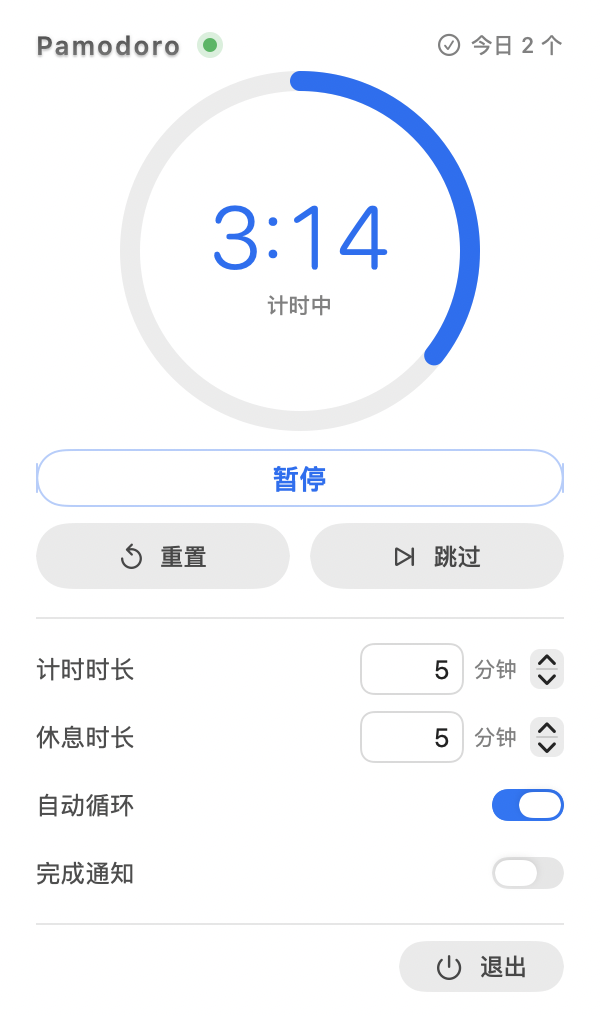
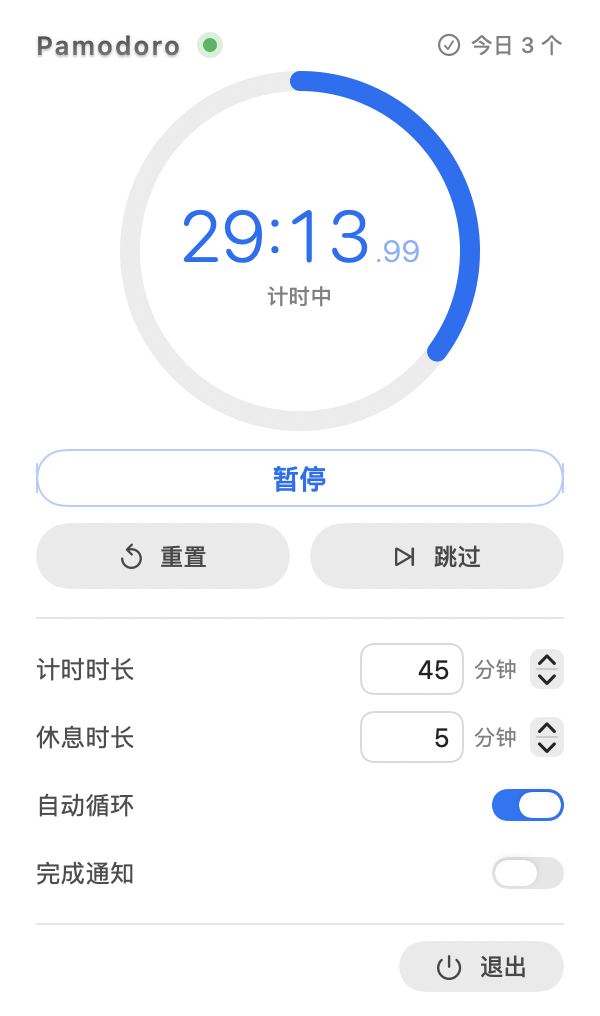
面板加毫秒显示，状态栏计时态改用计时器图标，退出音间隔减半

diff --git a/Sources/main.swift b/Sources/main.swift
@@ -15,6 +15,7 @@ final class AppDelegate: NSObject, NSApplicationDelegate, NSPopoverDelegate {
         statusItem = NSStatusBar.system.statusItem(withLength: Self.statusItemLength)
 
         if let button = statusItem.button {
+            button.imagePosition = .imageLeading
             button.target = self
             button.action = #selector(statusItemClicked)
             button.sendAction(on: [.leftMouseUp, .rightMouseUp])
@@ -39,16 +40,13 @@ final class AppDelegate: NSObject, NSApplicationDelegate, NSPopoverDelegate {
     /// 计时 / 休息之间切换 emoji 时，item 都不变宽，锚定其上的 popover 也就不会左右跳。
     private static var statusItemLength: CGFloat {
         let font = NSFont.monospacedDigitSystemFont(ofSize: 12.5, weight: .regular)
-        let samples = ["⌛ 888:88", "☕ 888:88"]
-        let widest = samples
-            .map { ceil(NSAttributedString(string: $0, attributes: [.font: font]).size().width) }
-            .max() ?? 72
-        return widest + 20
-    }
-
-    /// 计时用 ⌛，休息用 ☕
-    private static func emoji(for phase: PomodoroPhase) -> String {
-        phase == .rest ? "☕" : "⌛"
+        let textWidth = ceil(NSAttributedString(string: "888:88", attributes: [.font: font]).size().width)
+        let emojiWidth = ceil(NSAttributedString(string: "☕ ", attributes: [.font: font]).size().width)
+        let timerIconWidth = ceil(StatusIcon.timer.size.width)
+        // 计时态：图标 + 时间；休息态：咖啡 emoji + 时间
+        let runningWidth = timerIconWidth + textWidth
+        let restWidth = emojiWidth + textWidth
+        return max(runningWidth, restWidth) + 20
     }
 
     // MARK: - 状态栏
@@ -56,11 +54,14 @@ final class AppDelegate: NSObject, NSApplicationDelegate, NSPopoverDelegate {
     private func updateStatusItem() {
         guard let button = statusItem?.button else { return }
 
-        let title = "\(Self.emoji(for: engine.phase)) \(PomodoroEngine.format(engine.remaining))"
+        let isRest = engine.phase == .rest
+        let timeText = PomodoroEngine.format(engine.remaining)
+        let title = isRest ? "☕ \(timeText)" : timeText
         if title != lastTitle {
             lastTitle = title
             let font = NSFont.monospacedDigitSystemFont(ofSize: 12.5, weight: .regular)
             button.attributedTitle = NSAttributedString(string: title, attributes: [.font: font])
+            button.image = isRest ? nil : StatusIcon.timer
         }
         button.toolTip = "番茄钟 · \(engine.stateCaption)"
     }

diff --git a/Sources/StatusIcon.swift b/Sources/StatusIcon.swift
@@ -1,0 +1,39 @@
+import AppKit
+
+/// 菜单栏用的计时器图标：与 App logo 同源（表盘 + 表冠 + 指针），
+/// 以模板图渲染，自动跟随菜单栏深浅色与高亮反色。
+enum StatusIcon {
+
+    static let timer: NSImage = {
+        let size = NSSize(width: 17, height: 17)
+        let image = NSImage(size: size, flipped: false) { _ in
+            NSColor.black.setStroke()
+            NSColor.black.setFill()
+
+            // 表盘
+            let dial = NSBezierPath(ovalIn: NSRect(x: 2.7, y: 1.7, width: 11.6, height: 11.6))
+            dial.lineWidth = 1.5
+            dial.stroke()
+
+            // 顶部表冠
+            let crown = NSBezierPath(roundedRect: NSRect(x: 6.9, y: 13.3, width: 3.2, height: 2.3),
+                                     xRadius: 0.8, yRadius: 0.8)
+            crown.fill()
+
+            // 指针（指向 12 点）
+            let hand = NSBezierPath()
+            hand.move(to: NSPoint(x: 8.5, y: 7.5))
+            hand.line(to: NSPoint(x: 8.5, y: 11.2))
+            hand.lineWidth = 1.5
+            hand.lineCapStyle = .round
+            hand.stroke()
+
+            // 中心轴
+            NSBezierPath(ovalIn: NSRect(x: 7.75, y: 6.75, width: 1.5, height: 1.5)).fill()
+
+            return true
+        }
+        image.isTemplate = true
+        return image
+    }()
+}

diff --git a/Sources/PopoverView.swift b/Sources/PopoverView.swift
@@ -155,10 +155,18 @@ struct PopoverView: View {
             }
 
             VStack(spacing: 2) {
-                Text(engine.timeText)
-                    .font(.system(size: 44, weight: .light, design: .rounded))
-                    .monospacedDigit()
-                    .foregroundStyle(tint)
+                HStack(alignment: .firstTextBaseline, spacing: 1) {
+                    Text(engine.timeText)
+                        .font(.system(size: 36, weight: .light, design: .rounded))
+                        .monospacedDigit()
+                        .fixedSize()
+                    Text(".\(engine.fractionText)")
+                        .font(.system(size: 15, weight: .light, design: .rounded))
+                        .monospacedDigit()
+                        .opacity(0.55)
+                        .fixedSize()
+                }
+                .foregroundStyle(tint)
 
                 Text(hover.isHovering ? engine.ringHint : engine.stateCaption)
                     .font(.system(size: 11, weight: .medium))

diff --git a/Sources/PomodoroEngine.swift b/Sources/PomodoroEngine.swift
@@ -123,6 +123,13 @@ final class PomodoroEngine: ObservableObject {
 
     var timeText: String { Self.format(remaining) }
 
+    /// 百分秒（两位），面板里跟在秒后面显示，状态栏不用
+    var fractionText: String {
+        let total = max(0, remaining)
+        let hundredths = Int((total * 100).rounded(.down)) % 100
+        return String(format: "%02d", hundredths)
+    }
+
     var stateCaption: String {
         if isChiming { return "提醒中" }
         switch phase {
@@ -260,7 +267,7 @@ final class PomodoroEngine: ObservableObject {
 
     private func startTicker() {
         ticker?.invalidate()
-        let t = Timer(timeInterval: 0.25, repeats: true) { [weak self] _ in
+        let t = Timer(timeInterval: 0.02, repeats: true) { [weak self] _ in
             self?.tick()
         }
         RunLoop.main.add(t, forMode: .common)

diff --git a/README.md b/README.md
@@ -70,7 +70,8 @@ open /Applications/Pomodoro.app
 
 ## 功能
 
-- **菜单栏常驻倒计时**：计时状态 `⌛ 24:59`，休息状态 `☕ 4:10`，等宽数字不跳动
+- **菜单栏常驻倒计时**：计时状态是计时器图标 + `24:59`，休息状态换成 `☕ 4:10`，等宽数字不跳动
+- **毫秒显示**：面板里秒后面跟两位毫秒（`29:13.99`，50fps 刷新）；状态栏仍只显示到秒
 - **点击开面板**：环形进度、大号等宽时间、胶囊按钮；右键图标可直接退出
 - **点击表盘**：直接点圆形表盘即可开始 / 暂停 / 继续（悬停时光标变手型、状态文字提示当前动作）
 - **任意时长**：计时 / 休息都是 1–180 分钟，可直接键入数字，也能用步进器 ±1 分钟微调
@@ -110,8 +111,9 @@ rm -rf /Applications/Pomodoro.app
 
 ## 实现要点
 
-- **状态栏**：`NSStatusItem` + 固定宽度。宽度按 `⌛ 888:88` 量出（85 pt），倒计时位数在
-  `5:00` / `25:00` / `180:00` 之间变化也不会让 item 伸缩——否则锚定其上的面板会跟着左右跳。
+- **状态栏**：`NSStatusItem` + 固定宽度。宽度按「计时器图标 / ☕ + 888:88」里更宽的一档量出，
+  倒计时位数在 `5:00` / `25:00` / `180:00` 之间变化也不会让 item 伸缩——否则锚定其上的面板会跟着左右跳。
+  计时器图标是按 App logo 同源绘制的模板图（`StatusIcon`），自动跟随菜单栏深浅色与高亮反色。
 - **面板**：`NSPopover` + SwiftUI。`NSPopover` 自带的菜单栏定位会把面板顶出屏幕上沿
   （顶部被裁），因此另做了屏幕几何校正，把面板夹在图标正下方与可见区域内。
 - **状态栏图标**：emoji —— 计时 ⌛、休息 ☕。
@@ -121,14 +123,14 @@ rm -rf /Applications/Pomodoro.app
   状态差异交给左上角运行灯（绿 = 计时中，红 = 暂停 / 待机）和进度环；
   按下时有缩放与透明度反馈。深色模式把浅色底换成深色底。
 - **标题**：左上角 `Pamodoro` 做了刻字质感——深色字面 + 下缘高光 + 上缘暗影。
-- **计时状态机**：单一 `Timer` 驱动 `remaining`，阶段切换集中在 `finishPhase()`；
+- **计时状态机**：单一 `Timer`（20ms 间隔）驱动 `remaining`，毫秒由剩余时间直接算出；阶段切换集中在 `finishPhase()`；
   跨天归零用「下一个北京时间零点」的一次性 Timer 驱动。
 - **提示音**：优先用 `AVAudioPlayer` 播放 bundle 里的 `pomo-chime.mp3`，取它的 `duration`
   来决定「响完再开始」的延时；没有音频文件时退回合成 WAV（老式电子表「滴滴。。」）。
   延时动作在提示音期间排队，响完才执行，所以提示音时间不会计入任何一轮计时。
 - **点击音效**：从 `pomo-chime.mp3` 截出第一个音（`Resources/click.wav`，0.47s），
   所有按钮共用同一个单音，音量固定为提醒音量的 45%；「退出」单独用两声版本
-  （`Resources/quit.wav`，两声间隔 0.38s）；素材缺失时退回合成的 90ms「啪嗒」。
+  （`Resources/quit.wav`，两声间隔 0.19s，更紧凑）；素材缺失时退回合成的 90ms「啪嗒」。
 - **初始化**：先读出全部 `UserDefaults` 再统一赋值，并用 `isLoading` 标记挡掉初始化期间的
   `didSet` 回写，防止启动时把用户设置覆盖成默认值。
 - **分发**：`build.sh` 分别编译 `arm64` 与 `x86_64`，用 `lipo` 合成通用二进制，
